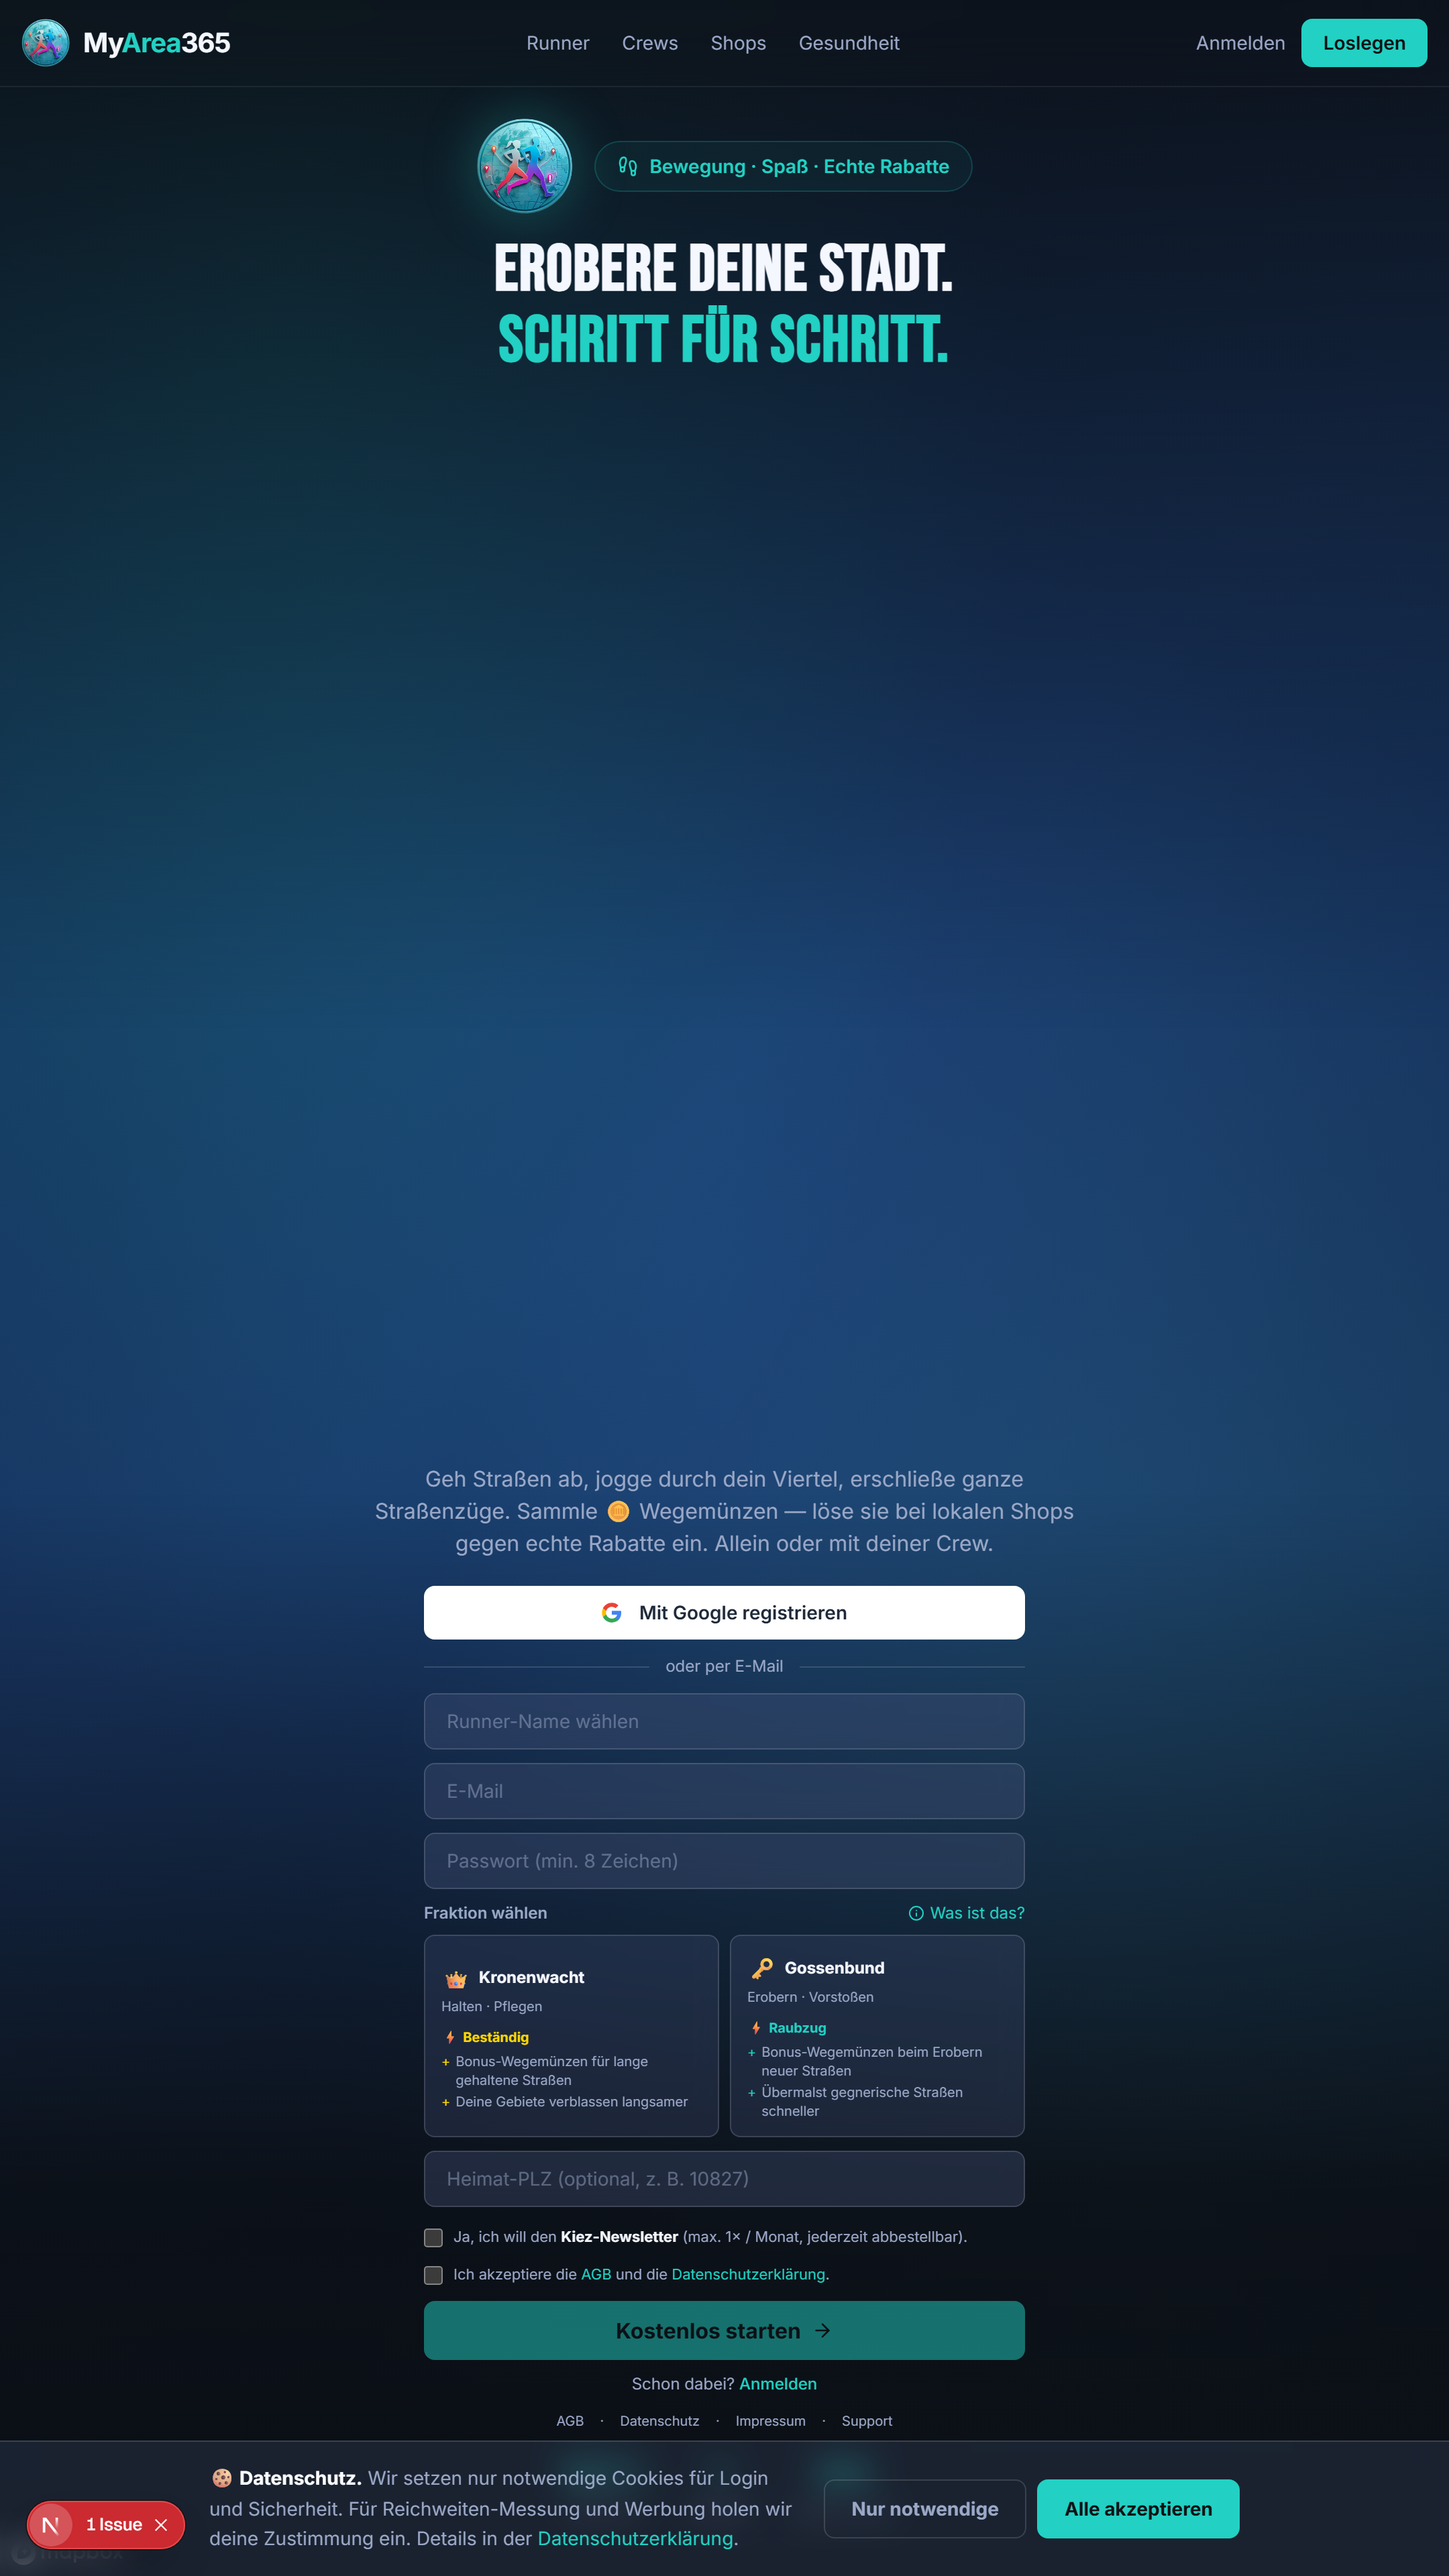
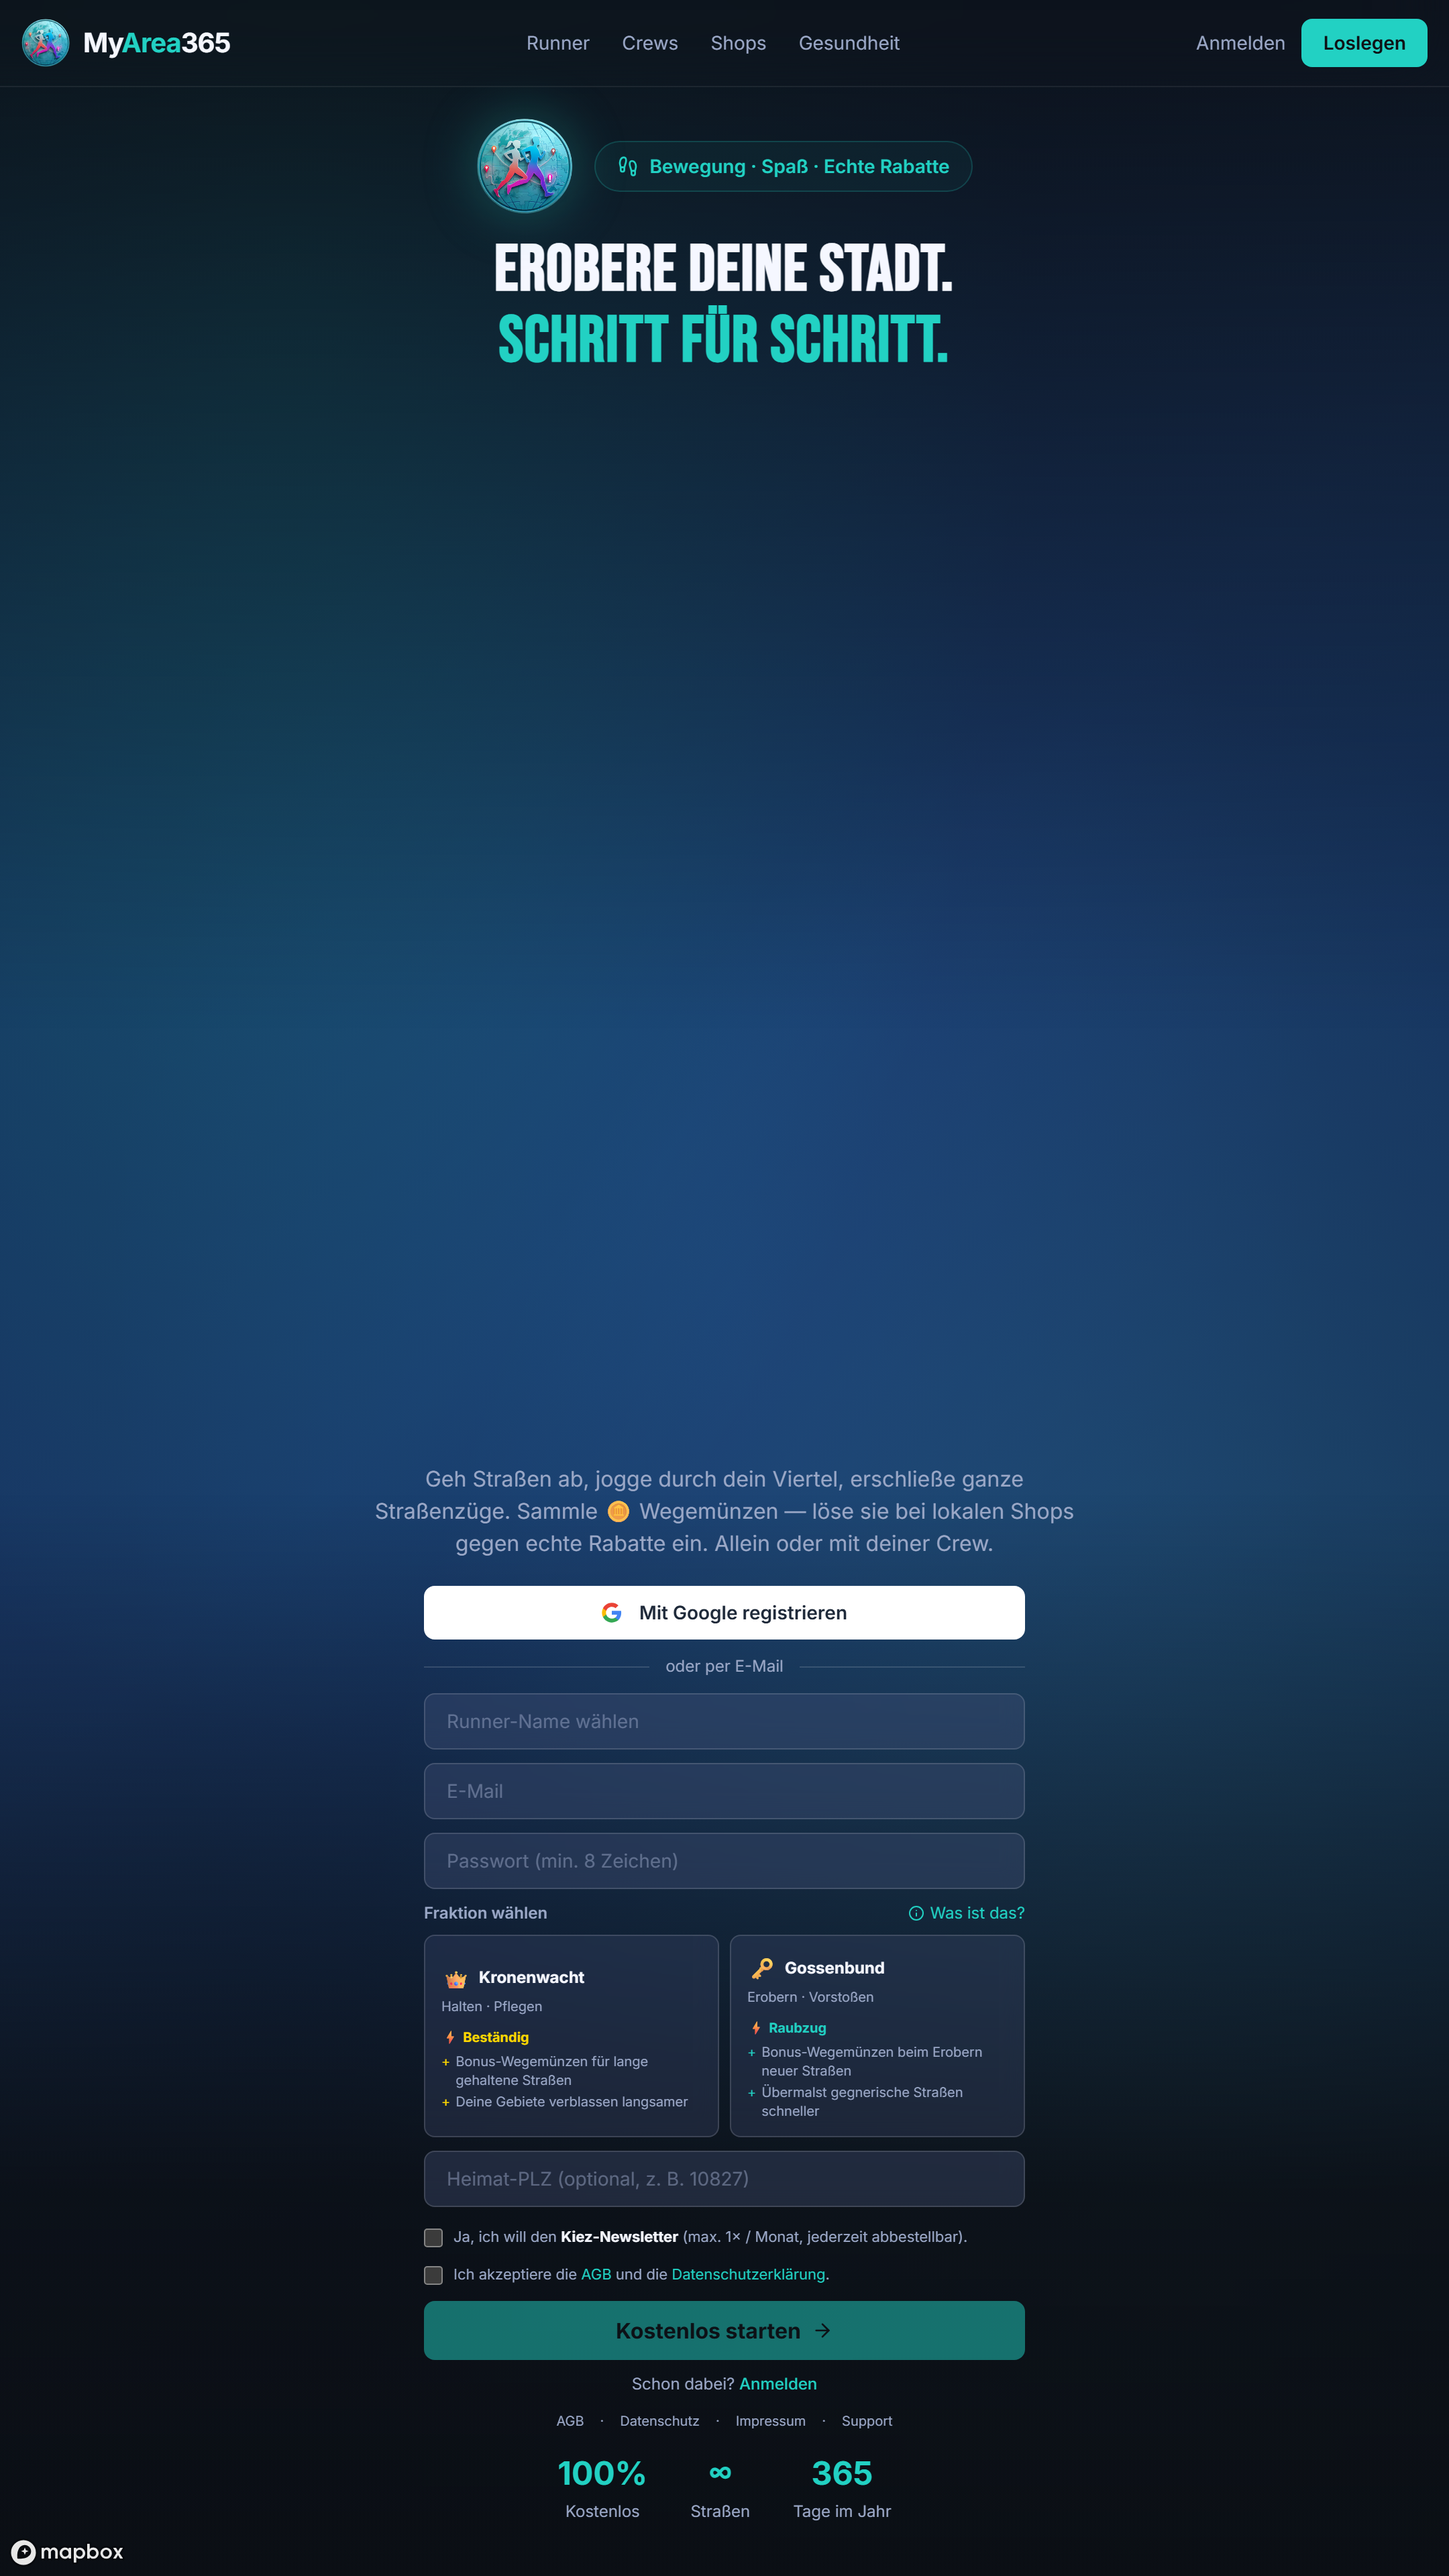
feat(play-assets): coole Feature-Graphic + saubere Screenshots
- Feature-Graphic: Burg-Variante zurück ("Erlauf deine Straßen.
  Erobere die Karte.") — keine Berlin-Begriffe mehr
- Screenshots ohne Cookie-Banner (Consent vorab im localStorage)
  und ohne Next-Dev-Badge (CSS-Hide für nextjs-portal/toast)
- /deals + /shop (auth-walled) ersetzt durch /u/kaelthor (public)
- Impressum-Shot raus — Legal-Text bringt nichts im Listing
- middleware: .html aus dem Matcher → /feature-graphic.html nicht
  mehr hinter Auth
- render-play-shots.mjs: konsolidiertes Script für Feature-Graphic
  + Phone-Shots (1024x500 + 1080x1920), inkl. optionalem Login via
  PLAY_REVIEW_EMAIL/PASSWORD

Changed region(s): [[0.0, 0.9375, 1.0, 1.0]]

diff --git a/apps/web/public/feature-graphic.html b/apps/web/public/feature-graphic.html
@@ -138,16 +138,16 @@
     <div class="corner-tag">myarea365.de</div>
     <div class="content">
       <div class="left">
-        <span class="pill">Berlin · Beta-Launch</span>
+        <span class="pill">Beta · Lauf-Community</span>
         <h1>
           Erlauf<br/>
-          deinen <span class="accent">Kiez</span>.<br/>
-          Erobere die <span class="accent-pink">Stadt</span>.
+          deine <span class="accent">Straßen</span>.<br/>
+          Erobere die <span class="accent-pink">Karte</span>.
         </h1>
         <p class="sub">
-          Verwandle deine Spaziergänge in ein Spiel: erobere Straßen,
-          sammle mit Freunden Wegemünzen und löse Rabatte bei lokalen
-          Geschäften ein.
+          Verwandle jeden Spaziergang in ein Spiel: claim Gebiete,
+          sammle mit deiner Crew Wegemünzen und löse echte Rabatte
+          bei lokalen Geschäften ein.
         </p>
         <div class="badges">
           <span class="badge"><span class="dot">●</span>Crew-Wars</span>

diff --git a/apps/web/src/middleware.ts b/apps/web/src/middleware.ts
@@ -71,6 +71,6 @@ export const config = {
     // Seiten-Auth (api ausgenommen — Auth läuft pro Route)
     // Static-Files (Bilder, ads.txt, robots.txt, sitemap.xml) muessen ohne Auth-
     // Redirect direkt ausgeliefert werden — sonst schlaegt AdSense-Verifikation fehl.
-    "/((?!_next/static|_next/image|favicon.ico|images|fonts|\\.well-known|.*\\.(?:svg|png|jpg|jpeg|gif|webp|ico|txt|xml|json|webmanifest)$).*)",
+    "/((?!_next/static|_next/image|favicon.ico|images|fonts|\\.well-known|.*\\.(?:svg|png|jpg|jpeg|gif|webp|ico|txt|xml|json|webmanifest|html)$).*)",
   ],
 };
